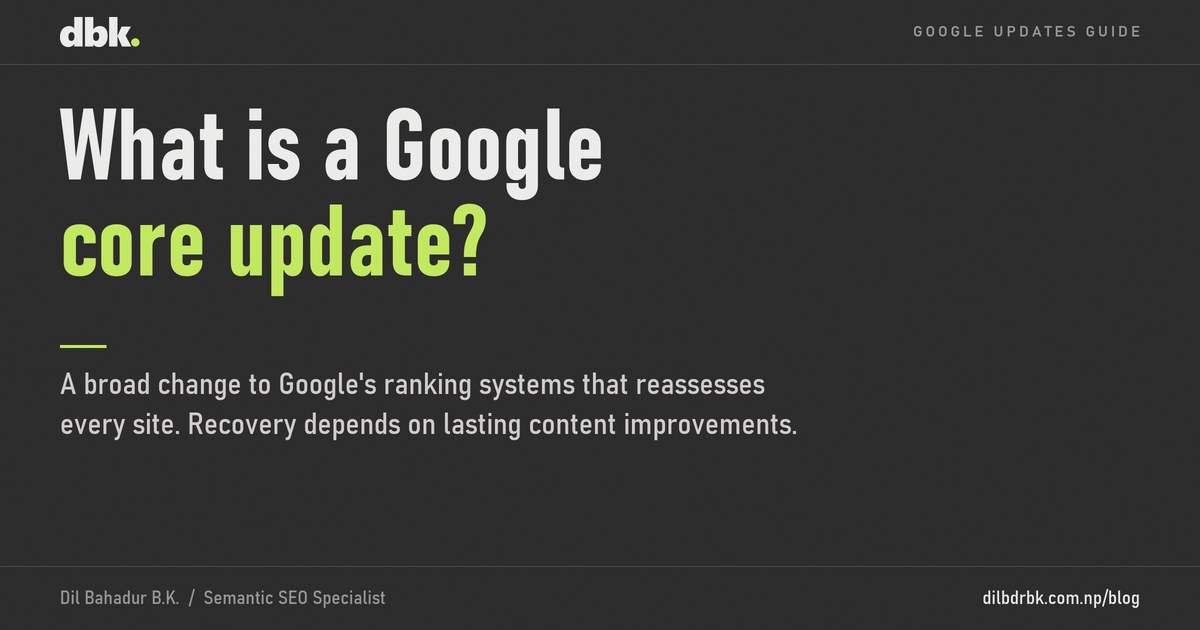
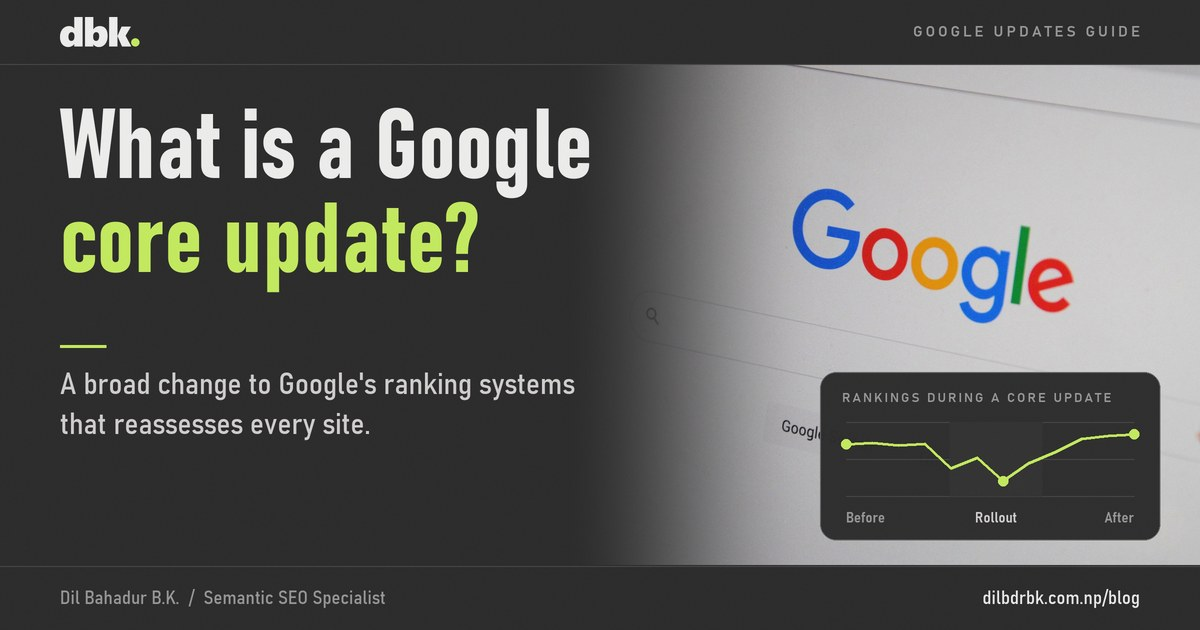
Core update cover: Google homepage photo with a rankings chart
Pexels photo by Sarah Blocksidge (Pexels License), credited in _src/README.md.

diff --git a/index.html b/index.html
@@ -854,7 +854,7 @@
         <p class="label res-nojs">Blog</p>
 <div class="edge post-slider" data-carousel>
 <ul class="edge-track feature-posts" role="list" tabindex="0" aria-label="Semantic SEO guides, newest first">
-<li class="feature-card"><a href="/blog/what-is-a-google-core-update/"><img src="/assets/img/blog/what-is-a-google-core-update.webp?v=ad59e489" width="1600" height="840" alt="" loading="lazy" decoding="async"><span class="feature-text"><span class="feature-tags"><span>Core updates</span><span>Google Search</span><span>SEO recovery</span></span><span class="feature-meta"><time datetime="2026-11-15">15 November 2026</time><span>13 min read</span></span><span class="feature-title">What Is a Google Core Update and How Do You Recover From One?</span><span class="feature-desc">A Google core update is a broad change to Google&#x27;s ranking systems that reassesses every site, shifts rankings and rewards helpful content.</span><span class="feature-more">Read the guide</span></span></a></li>
+<li class="feature-card"><a href="/blog/what-is-a-google-core-update/"><img src="/assets/img/blog/what-is-a-google-core-update.webp?v=6350298d" width="1600" height="840" alt="" loading="lazy" decoding="async"><span class="feature-text"><span class="feature-tags"><span>Core updates</span><span>Google Search</span><span>SEO recovery</span></span><span class="feature-meta"><time datetime="2026-11-15">15 November 2026</time><span>13 min read</span></span><span class="feature-title">What Is a Google Core Update and How Do You Recover From One?</span><span class="feature-desc">A Google core update is a broad change to Google&#x27;s ranking systems that reassesses every site, shifts rankings and rewards helpful content.</span><span class="feature-more">Read the guide</span></span></a></li>
 <li class="feature-card"><a href="/blog/what-is-the-google-knowledge-graph/"><img src="/assets/img/blog/what-is-the-google-knowledge-graph.webp?v=7cb2022f" width="1600" height="840" alt="" loading="lazy" decoding="async"><span class="feature-text"><span class="feature-tags"><span>Knowledge Graph</span><span>Entity SEO</span><span>Structured data</span></span><span class="feature-meta"><time datetime="2026-11-07">7 November 2026</time><span>13 min read</span></span><span class="feature-title">What Is the Google Knowledge Graph and How Does It Affect SEO?</span><span class="feature-desc">Google&#x27;s Knowledge Graph is a database of entity facts that feeds knowledge panels and entity matching, shaping SEO without being a listed ranking system.</span><span class="feature-more">Read the guide</span></span></a></li>
 <li class="feature-card"><a href="/blog/how-to-create-a-topical-map/"><img src="/assets/img/blog/how-to-create-a-topical-map.webp?v=147c4a07" width="1600" height="840" alt="" loading="lazy" decoding="async"><span class="feature-text"><span class="feature-tags"><span>Topical map</span><span>Topical authority</span><span>Semantic SEO</span></span><span class="feature-meta"><time datetime="2026-11-01">1 November 2026</time><span>12 min read</span></span><span class="feature-title">How to Create a Topical Map</span><span class="feature-desc">To create a topical map, define the central entity, map its attributes, gather real queries, then test which deserve a page and link them core to outer.</span><span class="feature-more">Read the guide</span></span></a></li>
 <li class="feature-card"><a href="/blog/how-to-get-cited-by-chatgpt/"><img src="/assets/img/blog/how-to-get-cited-by-chatgpt.webp?v=1a850dc1" width="1600" height="840" alt="" loading="lazy" decoding="async"><span class="feature-text"><span class="feature-tags"><span>AI search</span><span>GEO</span><span>ChatGPT</span></span><span class="feature-meta"><time datetime="2026-10-31">31 October 2026</time><span>15 min read</span></span><span class="feature-title">How to Get Cited by ChatGPT, AI Overviews and AI Mode</span><span class="feature-desc">To get cited by ChatGPT, allow OAI-SearchBot, get indexed in Bing and Google, and answer each fan-out sub-question with sourced facts and clear entities.</span><span class="feature-more">Read the guide</span></span></a></li>

diff --git a/blog/index.html b/blog/index.html
@@ -221,7 +221,7 @@
 <section class="frame">
   <div class="rail"><p class="label"><span class="idx">01</span> Posts</p></div>
   <div class="body">
-<ul class="post-list"><li class="post-row"><a href="/blog/what-is-a-google-core-update/"><img class="post-thumb" src="/assets/img/blog/what-is-a-google-core-update-thumb.webp?v=de5bf77d" width="640" height="336" alt="" loading="lazy" decoding="async"><span class="post-row-text"><span class="post-row-meta"><time datetime="2026-11-15">15 November 2026</time><span>13 min read</span></span><span class="post-title">What Is a Google Core Update and How Do You Recover From One?</span><span class="post-desc">A Google core update is a broad change to Google&#x27;s ranking systems that reassesses every site, shifts rankings and rewards helpful content.</span></span></a></li>
+<ul class="post-list"><li class="post-row"><a href="/blog/what-is-a-google-core-update/"><img class="post-thumb" src="/assets/img/blog/what-is-a-google-core-update-thumb.webp?v=232a0f8d" width="640" height="336" alt="" loading="lazy" decoding="async"><span class="post-row-text"><span class="post-row-meta"><time datetime="2026-11-15">15 November 2026</time><span>13 min read</span></span><span class="post-title">What Is a Google Core Update and How Do You Recover From One?</span><span class="post-desc">A Google core update is a broad change to Google&#x27;s ranking systems that reassesses every site, shifts rankings and rewards helpful content.</span></span></a></li>
 <li class="post-row"><a href="/blog/what-is-the-google-knowledge-graph/"><img class="post-thumb" src="/assets/img/blog/what-is-the-google-knowledge-graph-thumb.webp?v=e3f12bf3" width="640" height="336" alt="" loading="lazy" decoding="async"><span class="post-row-text"><span class="post-row-meta"><time datetime="2026-11-07">7 November 2026</time><span>13 min read</span></span><span class="post-title">What Is the Google Knowledge Graph and How Does It Affect SEO?</span><span class="post-desc">Google&#x27;s Knowledge Graph is a database of entity facts that feeds knowledge panels and entity matching, shaping SEO without being a listed ranking system.</span></span></a></li>
 <li class="post-row"><a href="/blog/how-to-create-a-topical-map/"><img class="post-thumb" src="/assets/img/blog/how-to-create-a-topical-map-thumb.webp?v=7185d1ae" width="640" height="336" alt="" loading="lazy" decoding="async"><span class="post-row-text"><span class="post-row-meta"><time datetime="2026-11-01">1 November 2026</time><span>12 min read</span></span><span class="post-title">How to Create a Topical Map</span><span class="post-desc">To create a topical map, define the central entity, map its attributes, gather real queries, then test which deserve a page and link them core to outer.</span></span></a></li>
 <li class="post-row"><a href="/blog/how-to-get-cited-by-chatgpt/"><img class="post-thumb" src="/assets/img/blog/how-to-get-cited-by-chatgpt-thumb.webp?v=8f17859f" width="640" height="336" alt="" loading="lazy" decoding="async"><span class="post-row-text"><span class="post-row-meta"><time datetime="2026-10-31">31 October 2026</time><span>15 min read</span></span><span class="post-title">How to Get Cited by ChatGPT, AI Overviews and AI Mode</span><span class="post-desc">To get cited by ChatGPT, allow OAI-SearchBot, get indexed in Bing and Google, and answer each fan-out sub-question with sourced facts and clear entities.</span></span></a></li>

diff --git a/blog/what-is-a-google-core-update/index.html b/blog/what-is-a-google-core-update/index.html
@@ -19,7 +19,7 @@
 <meta property="og:image" content="https://dilbdrbk.com.np/assets/img/blog/what-is-a-google-core-update.jpg">
 <meta property="og:image:width" content="1200">
 <meta property="og:image:height" content="630">
-<meta property="og:image:alt" content="What is a Google core update: a broad change to Google&#x27;s ranking systems that reassesses every site, with recovery that depends on lasting content improvements.">
+<meta property="og:image:alt" content="What is a Google core update: the Google homepage on a screen beside a chart of rankings that dip during a core update rollout and settle after it.">
 <meta property="article:published_time" content="2026-11-15">
 <meta property="article:modified_time" content="2026-11-15">
 <meta property="article:author" content="https://dilbdrbk.com.np/about/">
@@ -37,7 +37,7 @@
 <meta name="twitter:title" content="What Is a Google Core Update? | Dil Bahadur B.K.">
 <meta name="twitter:description" content="A Google core update is a broad change to Google&#x27;s ranking systems that reassesses every site, shifts rankings and rewards helpful content.">
 <meta name="twitter:image" content="https://dilbdrbk.com.np/assets/img/blog/what-is-a-google-core-update.jpg">
-<meta name="twitter:image:alt" content="What is a Google core update: a broad change to Google&#x27;s ranking systems that reassesses every site, with recovery that depends on lasting content improvements.">
+<meta name="twitter:image:alt" content="What is a Google core update: the Google homepage on a screen beside a chart of rankings that dip during a core update rollout and settle after it.">
 <link rel="icon" href="/favicon.ico" sizes="48x48">
 <link rel="icon" href="/icon.png" type="image/png" sizes="96x96">
 <link rel="apple-touch-icon" href="/apple-touch-icon.png" sizes="180x180">
@@ -382,7 +382,7 @@
 </section>
 <section class="frame post-cover-frame">
   <div class="body">
-    <figure class="post-cover"><picture><source type="image/webp" srcset="/assets/img/blog/what-is-a-google-core-update.webp?v=ad59e489"><img src="/assets/img/blog/what-is-a-google-core-update.jpg?v=b21d6300" width="1200" height="630" alt="What is a Google core update: a broad change to Google&#x27;s ranking systems that reassesses every site, with recovery that depends on lasting content improvements." fetchpriority="high"></picture></figure>
+    <figure class="post-cover"><picture><source type="image/webp" srcset="/assets/img/blog/what-is-a-google-core-update.webp?v=6350298d"><img src="/assets/img/blog/what-is-a-google-core-update.jpg?v=0ca8b315" width="1200" height="630" alt="What is a Google core update: the Google homepage on a screen beside a chart of rankings that dip during a core update rollout and settle after it." fetchpriority="high"></picture></figure>
   </div>
 </section>
 <section class="frame post-main">

diff --git a/_src/make_images.py b/_src/make_images.py
@@ -412,6 +412,52 @@ def authority_compare(d):
     d.text((px(cx), px(520)), "A tool score built from backlinks", font=small, fill=INK_2, anchor="mm")
 
 
+def photo_panel(im, photo, x0, top, bottom, focus=(0.5, 0.5), fade=260, dim=0.9):
+    """Place a photo on the right of a cover, from x0 to the edge and between the header and
+    footer rules, fading into the dark background on its left edge."""
+    W = im.width
+    w, h = W - px(x0), px(bottom - top)
+    src = Image.open(ROOT / "_src" / "photos" / photo).convert("RGB")
+    scale = max(w / src.width, h / src.height)
+    src = src.resize((round(src.width * scale), round(src.height * scale)), Image.LANCZOS)
+    cx = min(max(int(src.width * focus[0] - w / 2), 0), src.width - w)
+    cy = min(max(int(src.height * focus[1] - h / 2), 0), src.height - h)
+    src = src.crop((cx, cy, cx + w, cy + h))
+    src = Image.blend(Image.new("RGB", src.size, BG), src, dim)
+    ramp = [round(255 * (3 * t * t - 2 * t * t * t)) for t in (min(x / px(fade), 1) for x in range(w))]
+    mask = Image.new("L", (w, 1))
+    mask.putdata(ramp)
+    im.paste(src, (px(x0), px(top)), mask.resize((w, h)))
+
+
+def ranking_card(im, box):
+    """A small dark card over the photo: positions that hold, dip during a rollout, then settle."""
+    x0, y0, x1, y1 = box
+    layer = Image.new("RGBA", im.size, (0, 0, 0, 0))
+    ld = ImageDraw.Draw(layer)
+    ld.rounded_rectangle([px(x0), px(y0), px(x1), px(y1)], radius=px(16), fill=BG + (250,),
+                         outline=LINE_STRONG + (255,), width=R)
+    im.paste(Image.alpha_composite(im.convert("RGBA"), layer).convert("RGB"))
+    d = ImageDraw.Draw(im)
+    label = bahn(13, "SemiBold")
+    tracked(d, (px(x0 + 22), px(y0 + 26)), "RANKINGS DURING A CORE UPDATE", label, MUTED, px(2.2))
+    gx0, gx1, gy0, gy1 = x0 + 26, x1 - 26, y0 + 50, y1 - 44
+    for k in range(3):
+        y = gy0 + k * (gy1 - gy0) / 2
+        d.line([(px(gx0), px(y)), (px(gx1), px(y))], fill=LINE, width=R)
+    roll = (gx0 + (gx1 - gx0) * 0.36, gx0 + (gx1 - gx0) * 0.68)
+    d.rectangle([px(roll[0]), px(gy0), px(roll[1]), px(gy1)], fill=RAISE)
+    shape = [0.30, 0.28, 0.31, 0.29, 0.62, 0.48, 0.80, 0.55, 0.40, 0.22, 0.18, 0.16]
+    pts = [(px(gx0 + (gx1 - gx0) * k / (len(shape) - 1)), px(gy0 + (gy1 - gy0) * v)) for k, v in enumerate(shape)]
+    d.line(pts, fill=ACCENT, width=px(3), joint="curve")
+    for x, y in (pts[0], pts[6], pts[-1]):
+        d.ellipse([x - px(5), y - px(5), x + px(5), y + px(5)], fill=ACCENT)
+    f = bahn(15, "SemiBold SemiCondensed")
+    for text, x in (("Before", gx0), ("Rollout", (roll[0] + roll[1]) / 2), ("After", gx1)):
+        anchor = "lm" if x == gx0 else "rm" if x == gx1 else "mm"
+        d.text((px(x), px(y1 - 22)), text, font=f, fill=INK_2 if text == "Rollout" else MUTED, anchor=anchor)
+
+
 def save_scaled(im, name, size, fmt, **opts):
     out = im.resize(size, Image.LANCZOS)
     out = grain(out)
@@ -528,9 +574,11 @@ def blog_images():
                              "Match third-party facts", "Earn independent references", "Check and claim"], step=72)
     save_scaled(card, "knowledge-graph-steps.webp", (1200, 675), "WEBP", quality=84, method=6)
 
-    cover, d = feature_canvas(1200, 630, 870, ("What is a Google", "core update?"),
-                              "A broad change to Google's ranking systems that reassesses every site. Recovery depends on lasting content improvements.",
+    cover, d = feature_canvas(1200, 630, 650, ("What is a Google", "core update?"),
+                              "A broad change to Google's ranking systems that reassesses every site.",
                               label="GOOGLE UPDATES GUIDE", divider=False)
+    photo_panel(cover, "google-search-engine-on-screen.jpg", 560, 65, 565, focus=(0.42, 0.42))
+    ranking_card(cover, (820, 372, 1160, 540))
     save_scaled(cover, "what-is-a-google-core-update.jpg", (1200, 630), "JPEG", quality=88, optimize=True, progressive=True)
     save_scaled(cover, "what-is-a-google-core-update.webp", (1600, 840), "WEBP", quality=82, method=6)
     save_scaled(cover, "what-is-a-google-core-update-thumb.webp", (640, 336), "WEBP", quality=80, method=6)

diff --git a/_src/README.md b/_src/README.md
@@ -78,6 +78,12 @@ Photos in `assets/img/photos/` come from Pexels under the Pexels License (free t
 | notes-and-charts-on-desk.webp | Alena Darmel | https://www.pexels.com/photo/a-person-writing-on-a-notebook-with-a-pencil-7710124/ |
 | laptop-phone-coffee-desk.webp | Hatice Baran | https://www.pexels.com/photo/abstract-shot-of-sunlight-and-shadow-on-a-table-with-laptop-13027385/ |
 | book-laptop-coffee.webp | Nur Nur | https://www.pexels.com/photo/cozy-study-setup-with-book-laptop-and-coffee-30457088/ |
+
+Blog cover photos in `_src/photos/` are drawn into the covers by `make_images.py`, under the same Pexels License:
+
+| File | Photographer | Source |
+| --- | --- | --- |
+| google-search-engine-on-screen.jpg | Sarah Blocksidge | https://www.pexels.com/photo/google-search-engine-on-screen-13628541/ |
 | budget-calculator-charts.webp | Kindel Media | https://www.pexels.com/photo/monthly-budget-planning-7054399/ |
 
 Tool icons on the home page: Simple Icons 16.30.0 (CC0) for Google Search Console, Google Analytics, Looker, Google Tag Manager, Google Colab, Semrush, WordPress and Shopify; Ahrefs' own pinned-tab SVG; AccuRanker's favicon (`assets/img/tools/accuranker.png`). The logos are trademarks of their owners and are shown only to name the tools.

diff --git a/_src/posts/what-is-a-google-core-update.md b/_src/posts/what-is-a-google-core-update.md
@@ -2,7 +2,7 @@
 {
   "date": "2026-11-15",
   "image": "what-is-a-google-core-update",
-  "imageAlt": "What is a Google core update: a broad change to Google's ranking systems that reassesses every site, with recovery that depends on lasting content improvements.",
+  "imageAlt": "What is a Google core update: the Google homepage on a screen beside a chart of rankings that dip during a core update rollout and settle after it.",
   "seoTitle": "What Is a Google Core Update?",
   "section": "Google Updates",
   "tags": ["Core updates", "Google Search", "SEO recovery"],
